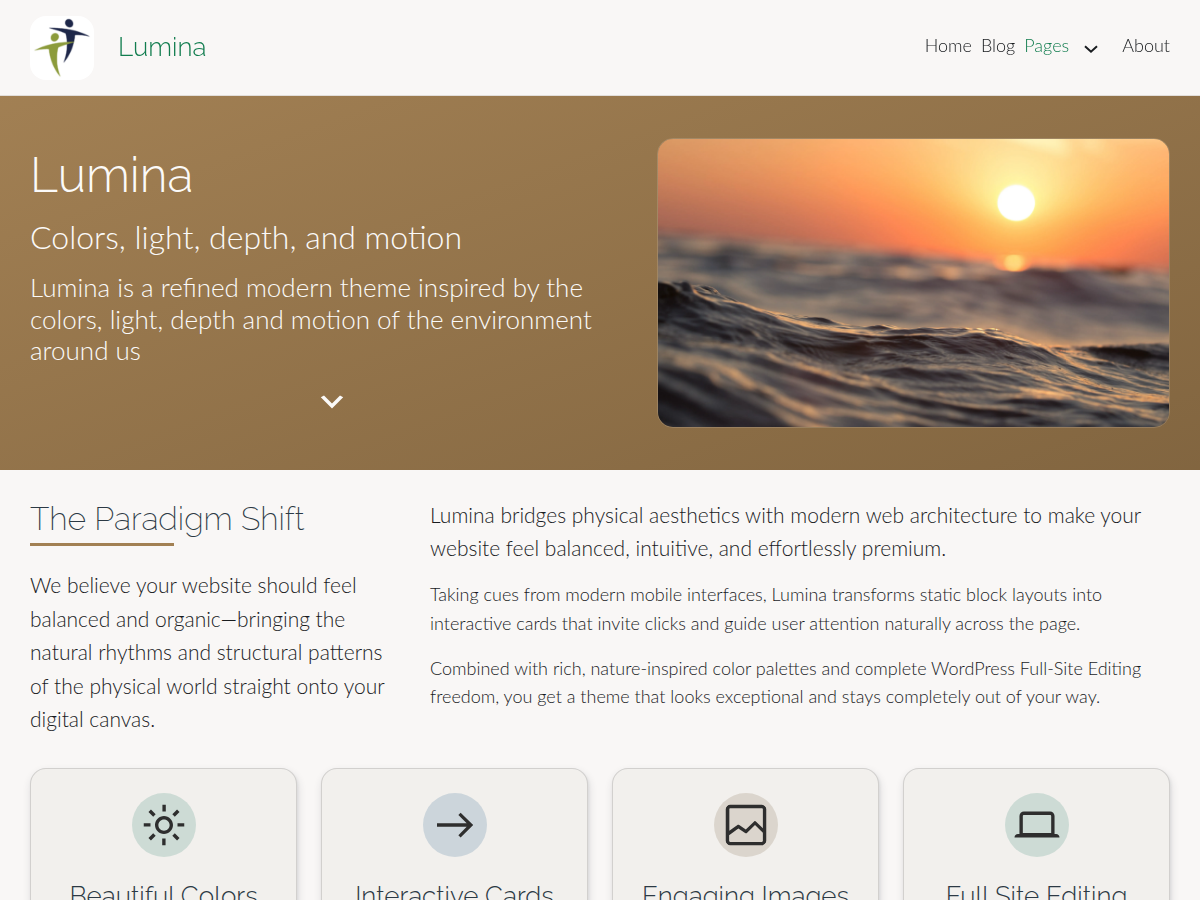
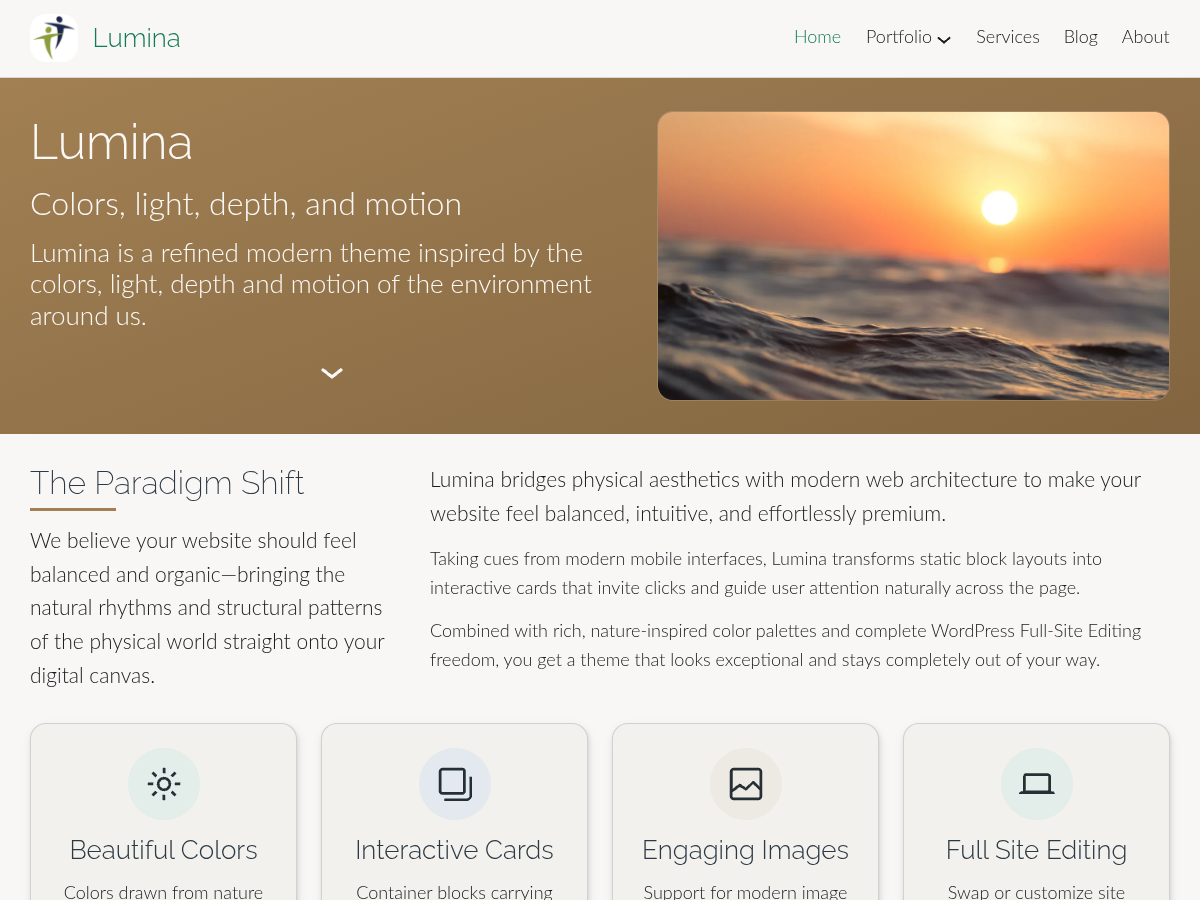
v1.0.0 Alpha (Content Home Top, Team Pics)
* Updated Page Lumina block pattern with text translations.
* Updated crop-images.py with sample commands using our actual image locations.
* Updated patterns2-php.sh to correctly map pages to core/post-content.

diff --git a/src/scss/blocks/group_headers.scss b/src/scss/blocks/group_headers.scss
@@ -46,8 +46,6 @@ $header-top-offset: var(--wp--preset--spacing--40, 24px) !default;
 // Responsibilities: Capsule geometry & width limits ONLY when WordPress doesn't
 // --------------------------------------------------------------------------
 .site-header {
-// 	position: relative;
-// 	top: 0; 
 
 	// Default header has bottom border (user can override)
 	border: none;

diff --git a/patterns/10-pages/90-page-lumina.php b/patterns/10-pages/90-page-lumina.php
@@ -7,52 +7,56 @@
  * Block Types: core/post-content
  */
 ?>
+<!-- wp:group {"metadata":{"name":"Home Banner Media \u0026 Text"},"align":"full","gradient":"tertiary","layout":{"type":"constrained"},"anchor":"banner-home-hero-media-text"} -->
+<div class="wp-block-group alignfull has-tertiary-gradient-background has-background" id="banner-home-hero-media-text">
+	<!-- wp:media-text {"align":"wide","mediaPosition":"right","linkDestination":"none","mediaType":"image","mediaWidth":45,"mediaSizeSlug":"cropped-large","imageFill":false,"className":"is-style-pan-zoom is-style-default"} -->
+	<div class="wp-block-media-text alignwide has-media-on-the-right is-stacked-on-mobile is-style-pan-zoom is-style-default" style="grid-template-columns:auto 45%">
+		<div class="wp-block-media-text__content">
+			<!-- wp:site-title {"isLink":false,"style":{"typography":{"lineHeight":"1.2"}},"fontSize":"huge"} /-->
 
-<!-- wp:cover {"url":"https://test.xtremelysocial.com/wp-content/themes/lumina/assets/images/pages/home-hero.webp","dimRatio":30,"isUserOverlayColor":true,"focalPoint":{"x":0.5,"y":0.5},"minHeight":100,"minHeightUnit":"vh","contentPosition":"center center","sizeSlug":"large","metadata":{"name":"Cover Scroll Home Header"},"align":"full","className":"is-dark is-style-pan-zoom","style":{"spacing":{"margin":{"top":"0"}}},"anchor":"cover-scroll-home-header"} -->
-<div class="wp-block-cover alignfull is-dark is-style-pan-zoom" style="margin-top:0;min-height:100vh" id="cover-scroll-home-header"><img class="wp-block-cover__image-background size-large" alt="" src="https://test.xtremelysocial.com/wp-content/themes/lumina/assets/images/pages/home-hero.webp" style="object-position:50% 50%" data-object-fit="cover" data-object-position="50% 50%"/><span aria-hidden="true" class="wp-block-cover__background has-background-dim-30 has-background-dim"></span><div class="wp-block-cover__inner-container"><!-- wp:group {"className":"is-style-glass is-style-object-static","style":{"spacing":{"padding":{"right":"var:preset|spacing|50","left":"var:preset|spacing|50","top":"var:preset|spacing|50","bottom":"var:preset|spacing|50"}}}} -->
-<div class="wp-block-group is-style-glass is-style-object-static" style="padding-top:var(--wp--preset--spacing--50);padding-right:var(--wp--preset--spacing--50);padding-bottom:var(--wp--preset--spacing--50);padding-left:var(--wp--preset--spacing--50)"><!-- wp:site-title {"isLink":false,"style":{"typography":{"textAlign":"center","lineHeight":"1.2"}},"fontSize":"huge"} /-->
+			<!-- wp:site-tagline {"style":{"typography":{"lineHeight":"1.2"}},"fontSize":"x-large"} /-->
 
-<!-- wp:site-tagline {"style":{"typography":{"textAlign":"center","lineHeight":"1.2"}},"fontSize":"x-large"} /-->
-
-<!-- wp:paragraph {"style":{"typography":{"lineHeight":"1.2","textAlign":"center"}},"fontSize":"large"} -->
-<p class="has-text-align-center has-large-font-size" style="line-height:1.2">Lumina is a refined modern theme inspired by the colors, light, depth and motion of the environment around us.</p>
+			<!-- wp:paragraph {"style":{"typography":{"lineHeight":"1.2"}},"fontSize":"large"} -->
+<p class="has-large-font-size" style="line-height:1.2"><?php esc_html_e("Lumina is a refined modern theme inspired by the colors, light, depth and motion of the environment around us.", "lumina"); ?></p>
 <!-- /wp:paragraph -->
 
-<!-- wp:paragraph {"metadata":{"name":"Scroll Down","patternName":"lumina/text-scroll-down","description":"Scroll Down Chevron","categories":["lumina","text"]},"className":"is-style-icon-scroll-down-no-text","style":{"typography":{"textAlign":"center"}}} -->
-<p class="has-text-align-center is-style-icon-scroll-down-no-text"><a href="#content-start">Scroll Down</a></p>
-<!-- /wp:paragraph --></div>
-<!-- /wp:group --></div></div>
-<!-- /wp:cover -->
-
-<!-- wp:group {"metadata":{"name":"Hidden Content Start","patternName":"lumina/hidden-content-start","description":"Hidden Content Start","categories":["lumina"]},"style":{"spacing":{"padding":{"top":"0","bottom":"0","left":"0","right":"0"},"margin":{"top":"0","bottom":"0"}}},"anchor":"content-start"} -->
-<div id="content-start" class="wp-block-group" style="margin-top:0;margin-bottom:0;padding-top:0;padding-right:0;padding-bottom:0;padding-left:0"></div>
+			<!-- wp:pattern {"slug":"lumina/text-scroll-down"} /-->
+		</div>
+		<figure class="wp-block-media-text__media">
+			<img src="<?php echo esc_url( get_theme_file_uri( "assets/images/pages/home-hero.webp" ) ); ?>" alt=""/>
+		</figure>
+	</div>
+	<!-- /wp:media-text -->
+</div>
 <!-- /wp:group -->
+
+<!-- wp:pattern {"slug":"lumina/hidden-content-start"} /-->
 
 <!-- wp:group {"lock":{"move":false,"remove":false},"metadata":{"name":"Site Motto + Details"},"align":"full","layout":{"type":"constrained"},"anchor":"site-motto-details"} -->
 <div class="wp-block-group alignfull" id="site-motto-details"><!-- wp:columns {"lock":{"move":false,"remove":false},"metadata":{"name":"Heading \u0026 Content"},"align":"wide","className":"is-style-default","style":{"spacing":{"blockGap":{"top":"var:preset|spacing|50","left":"var:preset|spacing|50"}}}} -->
 <div class="wp-block-columns alignwide is-style-default"><!-- wp:column {"width":"33.33%","metadata":{"name":"Heading"},"className":"is-style-first-on-mobile"} -->
 <div class="wp-block-column is-style-first-on-mobile" style="flex-basis:33.33%"><!-- wp:heading {"className":"is-style-separator"} -->
-<h2 class="wp-block-heading is-style-separator">The Paradigm Shift</h2>
+<h2 class="wp-block-heading is-style-separator"><?php esc_html_e("The Paradigm Shift", "lumina"); ?></h2>
 <!-- /wp:heading -->
 
 <!-- wp:group {"metadata":{"name":"Site Motto Medium"},"fontSize":"medium"} -->
 <div class="wp-block-group has-medium-font-size"><!-- wp:paragraph -->
-<p>We believe your website should feel balanced and organic—bringing the natural rhythms and structural patterns of the physical world straight onto your digital canvas.</p>
+<p><?php esc_html_e("We believe your website should feel balanced and organic—bringing the natural rhythms and structural patterns of the physical world straight onto your digital canvas.", "lumina"); ?></p>
 <!-- /wp:paragraph --></div>
 <!-- /wp:group --></div>
 <!-- /wp:column -->
 
 <!-- wp:column {"width":"66.66%","metadata":{"name":"Content"}} -->
 <div class="wp-block-column" style="flex-basis:66.66%"><!-- wp:paragraph {"fontSize":"medium"} -->
-<p class="has-medium-font-size">Lumina bridges physical aesthetics with modern web architecture to make your website feel balanced, intuitive, and effortlessly premium.</p>
+<p class="has-medium-font-size"><?php esc_html_e("Lumina bridges physical aesthetics with modern web architecture to make your website feel balanced, intuitive, and effortlessly premium.", "lumina"); ?></p>
 <!-- /wp:paragraph -->
 
 <!-- wp:paragraph -->
-<p>Taking cues from modern mobile interfaces, Lumina transforms static block layouts into interactive cards that invite clicks and guide user attention naturally across the page.</p>
+<p><?php esc_html_e("Taking cues from modern mobile interfaces, Lumina transforms static block layouts into interactive cards that invite clicks and guide user attention naturally across the page.", "lumina"); ?></p>
 <!-- /wp:paragraph -->
 
 <!-- wp:paragraph -->
-<p>Combined with rich, nature-inspired color palettes and complete WordPress Full-Site Editing freedom, you get a theme that looks exceptional and stays completely out of your way.</p>
+<p><?php esc_html_e("Combined with rich, nature-inspired color palettes and complete WordPress Full-Site Editing freedom, you get a theme that looks exceptional and stays completely out of your way.", "lumina"); ?></p>
 <!-- /wp:paragraph --></div>
 <!-- /wp:column --></div>
 <!-- /wp:columns --></div>
@@ -64,11 +68,11 @@
 <div class="wp-block-column is-style-rounded-border"><!-- wp:icon {"icon":"core/shadow","align":"center","className":"is-style-round","backgroundColor":"primary-subtle","ariaLabel":"Colors Icon"} /-->
 
 <!-- wp:heading {"level":3,"style":{"typography":{"textAlign":"center"}}} -->
-<h3 class="wp-block-heading has-text-align-center">Beautiful Colors</h3>
+<h3 class="wp-block-heading has-text-align-center"><?php esc_html_e("Beautiful Colors", "lumina"); ?></h3>
 <!-- /wp:heading -->
 
 <!-- wp:paragraph {"className":"is-style-default","style":{"typography":{"textAlign":"center"}}} -->
-<p class="has-text-align-center is-style-default">Colors drawn from nature rather than harsh monitors. Rich earthy mid-tones, subtle tints, and dark accents give you complete flexibility to direct visitor focus. <a href="#feature-grid">Learn more</a></p>
+<p class="has-text-align-center is-style-default"><?php esc_html_e("Colors drawn from nature rather than harsh monitors. Rich earthy mid-tones, subtle tints, and dark accents give you complete flexibility to direct visitor focus.", "lumina"); ?> <a href="#feature-grid"><?php esc_html_e("Learn more", "lumina"); ?></a></p>
 <!-- /wp:paragraph --></div>
 <!-- /wp:column -->
 
@@ -76,11 +80,11 @@
 <div class="wp-block-column is-style-rounded-border"><!-- wp:icon {"icon":"lumina/depth","align":"center","className":"is-style-round","backgroundColor":"secondary-subtle","ariaLabel":"Arrow Icon"} /-->
 
 <!-- wp:heading {"level":3,"style":{"typography":{"textAlign":"center"}}} -->
-<h3 class="wp-block-heading has-text-align-center">Interactive Cards</h3>
+<h3 class="wp-block-heading has-text-align-center"><?php esc_html_e("Interactive Cards", "lumina"); ?></h3>
 <!-- /wp:heading -->
 
 <!-- wp:paragraph {"className":"is-style-default","style":{"typography":{"textAlign":"center"}}} -->
-<p class="has-text-align-center is-style-default">Container blocks carrying links or action buttons automatically respond with subtle lift and soft ambient shadows when hovered or tapped on mobile screens. <a href="#feature-grid">Learn more</a></p>
+<p class="has-text-align-center is-style-default"><?php esc_html_e("Container blocks carrying links or action buttons automatically respond with subtle lift and soft ambient shadows when hovered or tapped on mobile screens.", "lumina"); ?> <a href="#feature-grid"><?php esc_html_e("Learn more", "lumina"); ?></a></p>
 <!-- /wp:paragraph --></div>
 <!-- /wp:column -->
 
@@ -88,11 +92,11 @@
 <div class="wp-block-column is-style-rounded-border"><!-- wp:icon {"icon":"core/image","align":"center","className":"is-style-round","backgroundColor":"tertiary-subtle","ariaLabel":"Computer Icon"} /-->
 
 <!-- wp:heading {"level":3,"style":{"typography":{"textAlign":"center"}}} -->
-<h3 class="wp-block-heading has-text-align-center">Engaging Images</h3>
+<h3 class="wp-block-heading has-text-align-center"><?php esc_html_e("Engaging Images", "lumina"); ?></h3>
 <!-- /wp:heading -->
 
 <!-- wp:paragraph {"className":"is-style-default","style":{"typography":{"textAlign":"center"}}} -->
-<p class="has-text-align-center is-style-default">Support for modern image aspect ratios,  Wide 16:9, Ultra-wide 21:9, and our unique "Slim" 16:4.5. Add a motion pan &amp; zoom effect with a single click. <a href="#feature-grid">Learn more</a></p>
+<p class="has-text-align-center is-style-default"><?php esc_html_e("Support for modern image aspect ratios,  Wide 16:9, Ultra-wide 21:9, and our unique \"Slim\" 16:4.5. Add a motion pan &amp; zoom effect with a single click.", "lumina"); ?> <a href="#feature-grid"><?php esc_html_e("Learn more", "lumina"); ?></a></p>
 <!-- /wp:paragraph --></div>
 <!-- /wp:column -->
 
@@ -100,11 +104,11 @@
 <div class="wp-block-column is-style-rounded-border"><!-- wp:icon {"icon":"core/desktop","align":"center","className":"is-style-round","backgroundColor":"primary-subtle","ariaLabel":"Computer Icon"} /-->
 
 <!-- wp:heading {"level":3,"style":{"typography":{"textAlign":"center"}}} -->
-<h3 class="wp-block-heading has-text-align-center">Full Site Editing</h3>
+<h3 class="wp-block-heading has-text-align-center"><?php esc_html_e("Full Site Editing", "lumina"); ?></h3>
 <!-- /wp:heading -->
 
 <!-- wp:paragraph {"className":"is-style-default","style":{"typography":{"textAlign":"center"}}} -->
-<p class="has-text-align-center is-style-default">Swap or customize site headers, footers, post grids, and color schemes directly within the Site Editor. Easily keep your site modern and fresh without writing code. <a href="#feature-grid">Learn more</a></p>
+<p class="has-text-align-center is-style-default"><?php esc_html_e("Swap or customize site headers, footers, post grids, and color schemes directly within the Site Editor. Easily keep your site modern and fresh without writing code.", "lumina"); ?> <a href="#feature-grid"><?php esc_html_e("Learn more", "lumina"); ?></a></p>
 <!-- /wp:paragraph --></div>
 <!-- /wp:column --></div>
 <!-- /wp:columns --></div>
@@ -113,11 +117,11 @@
 <!-- wp:group {"metadata":{"name":"Features 3x2 Columns"},"align":"full","layout":{"type":"constrained"},"anchor":"feature-grid"} -->
 <div class="wp-block-group alignfull" id="feature-grid"><!-- wp:group {"metadata":{"name":"Heading \u0026 Intro"},"align":"wide","layout":{"type":"default"}} -->
 <div class="wp-block-group alignwide"><!-- wp:heading {"metadata":{"name":"Heading"},"className":"is-style-separator"} -->
-<h2 class="wp-block-heading is-style-separator">Feature Highlights</h2>
+<h2 class="wp-block-heading is-style-separator"><?php esc_html_e("Feature Highlights", "lumina"); ?></h2>
 <!-- /wp:heading -->
 
 <!-- wp:paragraph {"metadata":{"name":"Intro"},"fontSize":"medium"} -->
-<p class="has-medium-font-size">Discover a collection of welcoming features engineered to make building and navigating your website an absolute joy.</p>
+<p class="has-medium-font-size"><?php esc_html_e("Discover a collection of welcoming features engineered to make building and navigating your website an absolute joy.", "lumina"); ?></p>
 <!-- /wp:paragraph --></div>
 <!-- /wp:group -->
 
@@ -127,12 +131,12 @@
 <div class="wp-block-group"><!-- wp:icon {"icon":"core/mobile","className":"is-style-default","style":{"layout":{"selfStretch":"fit","flexSize":null},"dimensions":{"width":"42px"}},"ariaLabel":"Mobile Device"} /-->
 
 <!-- wp:heading {"level":3} -->
-<h3 class="wp-block-heading">Mobile-Friendly</h3>
+<h3 class="wp-block-heading"><?php esc_html_e("Mobile-Friendly", "lumina"); ?></h3>
 <!-- /wp:heading --></div>
 <!-- /wp:group -->
 
 <!-- wp:paragraph -->
-<p>Interactive cards respond smoothly to touch gestures. The first tap reveals a small icon indicating the card is a link. A second tap follows the link.</p>
+<p><?php esc_html_e("Interactive cards respond smoothly to touch gestures. The first tap reveals a small icon indicating the card is a link. A second tap follows the link.", "lumina"); ?></p>
 <!-- /wp:paragraph --></div>
 <!-- /wp:column -->
 
@@ -141,12 +145,12 @@
 <div class="wp-block-group"><!-- wp:icon {"icon":"core/styles","className":"is-style-align-left","ariaLabel":"Color Contrast"} /-->
 
 <!-- wp:heading {"level":3} -->
-<h3 class="wp-block-heading">Automatic Contrast</h3>
+<h3 class="wp-block-heading"><?php esc_html_e("Automatic Contrast", "lumina"); ?></h3>
 <!-- /wp:heading --></div>
 <!-- /wp:group -->
 
 <!-- wp:paragraph -->
-<p>Simply select a background color and Lumina automatically applies WCAG AA-compliant text, headline, and link colors for flawless, zero-touch legibility.</p>
+<p><?php esc_html_e("Simply select a background color and Lumina automatically applies WCAG AA-compliant text, headline, and link colors for flawless, zero-touch legibility.", "lumina"); ?></p>
 <!-- /wp:paragraph --></div>
 <!-- /wp:column -->
 
@@ -155,12 +159,12 @@
 <div class="wp-block-group"><!-- wp:icon {"icon":"lumina/fonts","className":"is-style-align-left","ariaLabel":"Fonts"} /-->
 
 <!-- wp:heading {"level":3} -->
-<h3 class="wp-block-heading">Beautiful Fonts</h3>
+<h3 class="wp-block-heading"><?php esc_html_e("Beautiful Fonts", "lumina"); ?></h3>
 <!-- /wp:heading --></div>
 <!-- /wp:group -->
 
 <!-- wp:paragraph -->
-<p>Modern fonts that are soft in weight, but crisp and legible, giving your site a premium vibe. A dozen fonts are available that load locally for fast performance.</p>
+<p><?php esc_html_e("Modern fonts that are soft in weight, but crisp and legible, giving your site a premium vibe. A dozen fonts are available that load locally for fast performance.", "lumina"); ?></p>
 <!-- /wp:paragraph --></div>
 <!-- /wp:column --></div>
 <!-- /wp:columns -->
@@ -171,12 +175,12 @@
 <div class="wp-block-group"><!-- wp:icon {"icon":"lumina/dividers","className":"is-style-align-left is-style-default","ariaLabel":"Dividers"} /-->
 
 <!-- wp:heading {"level":3} -->
-<h3 class="wp-block-heading">Subtle Dividers</h3>
+<h3 class="wp-block-heading"><?php esc_html_e("Subtle Dividers", "lumina"); ?></h3>
 <!-- /wp:heading --></div>
 <!-- /wp:group -->
 
 <!-- wp:paragraph -->
-<p>Add clean, subtle architectural divider lines to columns, lists, and navigation menus via custom block styles in the editor.</p>
+<p><?php esc_html_e("Add clean, subtle architectural divider lines to columns, lists, and navigation menus via custom block styles in the editor.", "lumina"); ?></p>
 <!-- /wp:paragraph --></div>
 <!-- /wp:column -->
 
@@ -185,12 +189,12 @@
 <div class="wp-block-group"><!-- wp:icon {"icon":"lumina/details","className":"is-style-align-left is-style-default","ariaLabel":"Collapsible"} /-->
 
 <!-- wp:heading {"level":3} -->
-<h3 class="wp-block-heading">Collapsible Panels</h3>
+<h3 class="wp-block-heading"><?php esc_html_e("Collapsible Panels", "lumina"); ?></h3>
 <!-- /wp:heading --></div>
 <!-- /wp:group -->
 
 <!-- wp:paragraph -->
-<p>Accordions and disclosure panels remember whether visitors left them open or closed, preserving user display preferences across page views.</p>
+<p><?php esc_html_e("Accordions and disclosure panels remember whether visitors left them open or closed, preserving user display preferences across page views.", "lumina"); ?></p>
 <!-- /wp:paragraph --></div>
 <!-- /wp:column -->
 
@@ -199,12 +203,12 @@
 <div class="wp-block-group"><!-- wp:icon {"icon":"core/settings","className":"is-style-align-left","ariaLabel":"Styles"} /-->
 
 <!-- wp:heading {"level":3} -->
-<h3 class="wp-block-heading">Global Styles</h3>
+<h3 class="wp-block-heading"><?php esc_html_e("Global Styles", "lumina"); ?></h3>
 <!-- /wp:heading --></div>
 <!-- /wp:group -->
 
 <!-- wp:paragraph -->
-<p>Instantly transform your site's physical personality, border radius, block spacing, and animation curves with a single click in the Site Editor.</p>
+<p><?php esc_html_e("Instantly transform your site's physical personality, border radius, block spacing, and animation curves with a single click in the Site Editor.", "lumina"); ?></p>
 <!-- /wp:paragraph --></div>
 <!-- /wp:column --></div>
 <!-- /wp:columns --></div>
@@ -212,15 +216,15 @@
 
 <!-- wp:group {"metadata":{"categories":["lumina","media"],"name":"Image Computer Screen"},"align":"wide","style":{"spacing":{"padding":{"bottom":"0px"}}},"layout":{"type":"constrained"},"anchor":"computer-screen"} -->
 <div class="wp-block-group alignwide" id="computer-screen" style="padding-bottom:0px"><!-- wp:heading {"placeholder":"Image Computer Screen with Title and Text Above","className":"is-style-separator","style":{"typography":{"textAlign":"center"}}} -->
-<h2 class="wp-block-heading has-text-align-center is-style-separator">Showcase Your Works</h2>
+<h2 class="wp-block-heading has-text-align-center is-style-separator"><?php esc_html_e("Showcase Your Works", "lumina"); ?></h2>
 <!-- /wp:heading -->
 
 <!-- wp:paragraph {"style":{"spacing":{"margin":{"bottom":"var|preset|spacing|40"}},"typography":{"textAlign":"center"}}} -->
-<p class="has-text-align-center" style="margin-bottom:var|preset|spacing|40">With the click of a button you can add pan-zoom motion or a frame to simulate a computer or mobile device screen. No photo or video editing software required.</p>
+<p class="has-text-align-center" style="margin-bottom:var|preset|spacing|40"><?php esc_html_e("With the click of a button you can add pan-zoom motion or a frame to simulate a computer or mobile device screen. No photo or video editing software required.", "lumina"); ?></p>
 <!-- /wp:paragraph -->
 
 <!-- wp:image {"lightbox":{"enabled":true},"aspectRatio":"16/9","scale":"cover","align":"center","className":"is-resized size-large is-style-image-computer-screen"} -->
-<figure class="wp-block-image aligncenter is-resized size-large is-style-image-computer-screen"><img src="/wp-content/themes/lumina/assets/images/screenshots/01.webp" alt="screenshot" style="aspect-ratio:16/9;object-fit:cover"/></figure>
+<figure class="wp-block-image aligncenter is-resized size-large is-style-image-computer-screen"><img src="<?php echo esc_url( get_theme_file_uri( "assets/images/screenshots/01.webp" ) ); ?>" alt="screenshot" style="aspect-ratio:16/9;object-fit:cover"/></figure>
 <!-- /wp:image --></div>
 <!-- /wp:group -->
 
@@ -228,11 +232,11 @@
 <div class="wp-block-group alignwide" id="dividers-intro-3x2"><!-- wp:columns {"metadata":{"name":"Outer Columns"},"align":"wide","className":"is-style-default","style":{"spacing":{"blockGap":{"left":"var:preset|spacing|50"}}},"anchor":"metrics"} -->
 <div class="wp-block-columns alignwide is-style-default" id="metrics"><!-- wp:column {"width":"33.33%","metadata":{"name":"Intro Column"}} -->
 <div class="wp-block-column" style="flex-basis:33.33%"><!-- wp:heading {"align":"wide","className":"is-style-separator"} -->
-<h2 class="wp-block-heading alignwide is-style-separator">By the Numbers</h2>
+<h2 class="wp-block-heading alignwide is-style-separator"><?php esc_html_e("By the Numbers", "lumina"); ?></h2>
 <!-- /wp:heading -->
 
 <!-- wp:paragraph {"fontSize":"medium"} -->
-<p class="has-medium-font-size">With Full Site Editing and all the templates provided, there are <strong>thousands of unique theme layouts</strong> plus<strong> hundreds of block styles and patterns</strong> to easily make your content stand out.</p>
+<p class="has-medium-font-size"><?php esc_html_e("With Full Site Editing and all the templates provided, there are", "lumina"); ?> <strong><?php esc_html_e("thousands of unique theme layouts", "lumina"); ?></strong> <?php esc_html_e("plus", "lumina"); ?><strong> <?php esc_html_e("hundreds of block styles and patterns", "lumina"); ?></strong> <?php esc_html_e("to easily make your content stand out.", "lumina"); ?></p>
 <!-- /wp:paragraph --></div>
 <!-- /wp:column -->
 
@@ -244,7 +248,7 @@
 <!-- /wp:paragraph -->
 
 <!-- wp:paragraph {"className":"has-contrast-color has-text-color","style":{"typography":{"lineHeight":"1.4","textAlign":"center"}}} -->
-<p class="has-text-align-center has-contrast-color has-text-color" style="line-height:1.4">Color Schemes</p>
+<p class="has-text-align-center has-contrast-color has-text-color" style="line-height:1.4"><?php esc_html_e("Color Schemes", "lumina"); ?></p>
 <!-- /wp:paragraph --></div>
 <!-- /wp:column -->
 
@@ -254,7 +258,7 @@
 <!-- /wp:paragraph -->
 
 <!-- wp:paragraph {"className":"has-contrast-color has-text-color","style":{"typography":{"lineHeight":"1.4","textAlign":"center"}}} -->
-<p class="has-text-align-center has-contrast-color has-text-color" style="line-height:1.4">Header Layouts</p>
+<p class="has-text-align-center has-contrast-color has-text-color" style="line-height:1.4"><?php esc_html_e("Header Layouts", "lumina"); ?></p>
 <!-- /wp:paragraph --></div>
 <!-- /wp:column -->
 
@@ -264,7 +268,7 @@
 <!-- /wp:paragraph -->
 
 <!-- wp:paragraph {"className":"has-contrast-color has-text-color","style":{"typography":{"lineHeight":"1.4","textAlign":"center"}}} -->
-<p class="has-text-align-center has-contrast-color has-text-color" style="line-height:1.4">Footer Layouts</p>
+<p class="has-text-align-center has-contrast-color has-text-color" style="line-height:1.4"><?php esc_html_e("Footer Layouts", "lumina"); ?></p>
 <!-- /wp:paragraph --></div>
 <!-- /wp:column --></div>
 <!-- /wp:columns -->
@@ -276,7 +280,7 @@
 <!-- /wp:paragraph -->
 
 <!-- wp:paragraph {"className":"has-contrast-color has-text-color","style":{"typography":{"lineHeight":"1.4","textAlign":"center"}}} -->
-<p class="has-text-align-center has-contrast-color has-text-color" style="line-height:1.4">Curated Fonts</p>
+<p class="has-text-align-center has-contrast-color has-text-color" style="line-height:1.4"><?php esc_html_e("Curated Fonts", "lumina"); ?></p>
 <!-- /wp:paragraph --></div>
 <!-- /wp:column -->
 
@@ -286,7 +290,7 @@
 <!-- /wp:paragraph -->
 
 <!-- wp:paragraph {"className":"has-contrast-color has-text-color","style":{"typography":{"lineHeight":"1.4","textAlign":"center"}}} -->
-<p class="has-text-align-center has-contrast-color has-text-color" style="line-height:1.4">Custom Block Styles</p>
+<p class="has-text-align-center has-contrast-color has-text-color" style="line-height:1.4"><?php esc_html_e("Custom Block Styles", "lumina"); ?></p>
 <!-- /wp:paragraph --></div>
 <!-- /wp:column -->
 
@@ -296,7 +300,7 @@
 <!-- /wp:paragraph -->
 
 <!-- wp:paragraph {"className":"has-contrast-color has-text-color","style":{"typography":{"lineHeight":"1.4","textAlign":"center"}}} -->
-<p class="has-text-align-center has-contrast-color has-text-color" style="line-height:1.4">Block Patterns</p>
+<p class="has-text-align-center has-contrast-color has-text-color" style="line-height:1.4"><?php esc_html_e("Block Patterns", "lumina"); ?></p>
 <!-- /wp:paragraph --></div>
 <!-- /wp:column --></div>
 <!-- /wp:columns --></div>
@@ -308,18 +312,18 @@
 <div class="wp-block-group alignwide is-style-rounded-border has-secondary-background-color has-background" id="call-to-action-2-column"><!-- wp:columns {"verticalAlignment":"center","align":"wide","className":"is-style-center-on-mobile"} -->
 <div class="wp-block-columns alignwide are-vertically-aligned-center is-style-center-on-mobile"><!-- wp:column {"verticalAlignment":"center","width":"70%"} -->
 <div class="wp-block-column is-vertically-aligned-center" style="flex-basis:70%"><!-- wp:heading -->
-<h2 class="wp-block-heading"><strong>Illuminate</strong> your Website Today</h2>
+<h2 class="wp-block-heading"><strong><?php esc_html_e("Illuminate", "lumina"); ?></strong> <?php esc_html_e("your Website Today", "lumina"); ?></h2>
 <!-- /wp:heading -->
 
 <!-- wp:paragraph -->
-<p>Craft rich, high-performance web experiences with fluid motion, modern block patterns, and complete layout control with the Lumina theme.</p>
+<p><?php esc_html_e("Craft rich, high-performance web experiences with fluid motion, modern block patterns, and complete layout control with the Lumina theme.", "lumina"); ?></p>
 <!-- /wp:paragraph --></div>
 <!-- /wp:column -->
 
 <!-- wp:column {"verticalAlignment":"center","width":"30%"} -->
 <div class="wp-block-column is-vertically-aligned-center" style="flex-basis:30%"><!-- wp:buttons {"layout":{"type":"flex","justifyContent":"right"}} -->
 <div class="wp-block-buttons"><!-- wp:button {"className":"is-style-fill"} -->
-<div class="wp-block-button is-style-fill"><a class="wp-block-button__link wp-element-button" href="#content-start" rel="noreferrer noopener">Get Started</a></div>
+<div class="wp-block-button is-style-fill"><a class="wp-block-button__link wp-element-button" href="#content-start" rel="noreferrer noopener"><?php esc_html_e("Get Started", "lumina"); ?></a></div>
 <!-- /wp:button --></div>
 <!-- /wp:buttons --></div>
 <!-- /wp:column --></div>

diff --git a/utils/crop-images.py b/utils/crop-images.py
@@ -28,17 +28,17 @@ USAGE EXAMPLES (RUN FROM REPO ROOT OR SCRIPT FOLDER):
 
 2. PORTRAIT HEADSHOT RUN (3:4 Ratio / 1200x1600 / Center Crop):
    $ TARGET_W=1200 TARGET_H=1600 \
-     SOURCE_DIR="./assets/images/samples/profiles" \
+     SOURCE_DIR="./zz_unused/zz_raw-images/raw-lumina-headshots/final-manual-crops" \
      python3 utils/crop-images.py
 
 3. TIGHT HEADROOM HEADSHOT RUN (3:4 Ratio / 1200x1600 / Top-Anchored Crop):
    $ CROP=top TARGET_W=1200 TARGET_H=1600 \
-     SOURCE_DIR="./zz_unused/zz_raw-images/raw-lumina-headshots" \
+     SOURCE_DIR="./zz_unused/zz_raw-images/raw-lumina-headshots/final-manual-crops" \
      python3 utils/crop-images.py
 
 4. NO-CROP PASS-THROUGH (Preserve manual crops, embed EXIF & convert to WebP):
    $ CROP=none \
-     SOURCE_DIR="./zz_unused/zz_raw-images/raw-lumina-headshots" \
+     SOURCE_DIR="./zz_unused/zz_raw-images/raw-lumina-headshots/final-manual-crops" \
      python3 utils/crop-images.py
 
 5. CUSTOM SOURCE & OUTPUT DIRECTORIES WITH QUALITY CONTROL:
